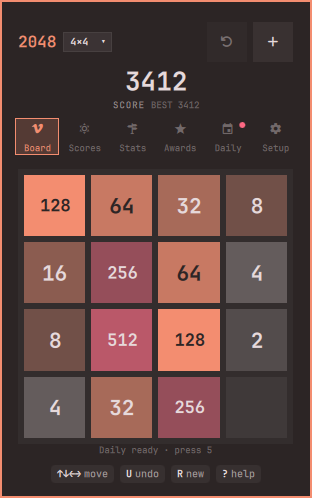
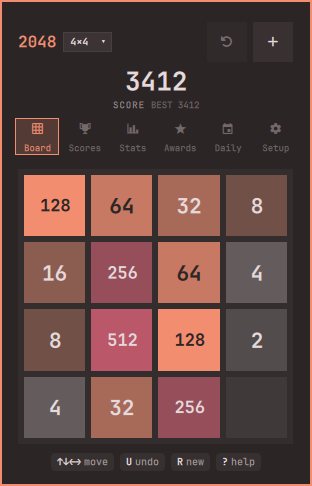
fix: correct tab glyphs, dim behind the dropdown, gate the time row

diff --git a/Panel.qml b/Panel.qml
@@ -428,9 +428,9 @@ Panel {
   // ink height) so the tabs read as one icon family.
   function tabs() {
     return [
-      { page: "", icon: "\uDB81\uDD77", label: "Board", dot: false },        // md-view_grid
-      { page: "scores", icon: "\uDB81\uDD99", label: "Scores", dot: false },  // md-trophy
-      { page: "stats", icon: "\uDB81\uDC6A", label: "Stats", dot: false },    // md-insights
+      { page: "", icon: "\uDB80\uDEC1", label: "Board", dot: false },        // md-grid
+      { page: "scores", icon: "\uDB81\uDD38", label: "Scores", dot: false },  // md-trophy
+      { page: "stats", icon: "\uDB80\uDD28", label: "Stats", dot: false },    // md-chart_bar
       { page: "achievements", icon: "\uDB81\uDCCE", label: "Awards",          // md-star
         dot: Game.unseenAchievements(root.profile).length > 0 },
       { page: "daily", icon: "\uDB80\uDCED", label: "Daily", dot: root.dailyReady }, // md-calendar
@@ -627,7 +627,7 @@ Panel {
   function statsRows() {
     var s = root.statsFor()
     if (!s) return []
-    return [
+    var rows = [
       ["Games", String(s.games)],
       ["Wins", String(s.wins)],
       ["Win rate", Math.round(Game.winRate(s) * 100) + "%"],
@@ -635,9 +635,12 @@ Panel {
       ["Best tile", String(s.bestTile)],
       ["Total moves", String(s.moves)],
       ["Avg score", String(Game.averageScore(s))],
-      ["Best streak", String(s.longestStreak)],
-      ["Time played", Game.formatDuration(s.timeMs)]
+      ["Best streak", String(s.longestStreak)]
     ]
+    // Only show the play time once it has been tracked: a legacy/older game
+    // carries no start time, which would otherwise read as a misleading "0:00".
+    if (s.timeMs > 0) rows.push(["Time played", Game.formatDuration(s.timeMs)])
+    return rows
   }
 
   function statsGames() {
@@ -3171,12 +3174,18 @@ Panel {
       // catcher so it can sit freely under the header chip and above the tabs
       // and the board. `[`/`]` cycle without it; ↑/↓ move, Enter picks; Esc or
       // a click anywhere outside closes it.
-      // Outside-click catcher: a click anywhere on the panel closes the picker.
-      MouseArea {
+      // Scrim + outside-click catcher: a dim behind the dropdown so the score,
+      // tab bar and title behind it recede; a click anywhere closes the picker.
+      Rectangle {
         visible: root.sizePickerOpen
         anchors.fill: parent
         z: 70
-        onClicked: root.closeSizePicker()
+        color: Util.alpha(Color.popups.background, 0.55)
+
+        MouseArea {
+          anchors.fill: parent
+          onClicked: root.closeSizePicker()
+        }
       }
 
       // Board-size dropdown: a clean popup directly below the header chip,
